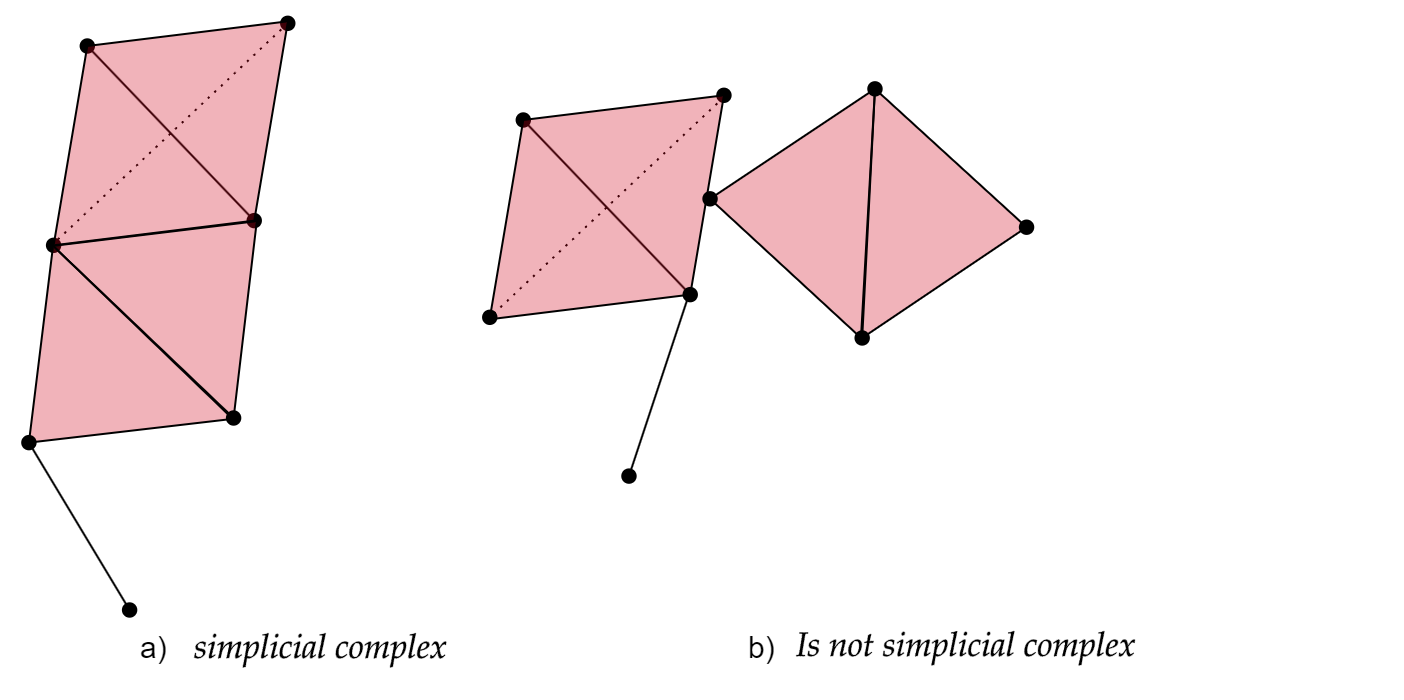
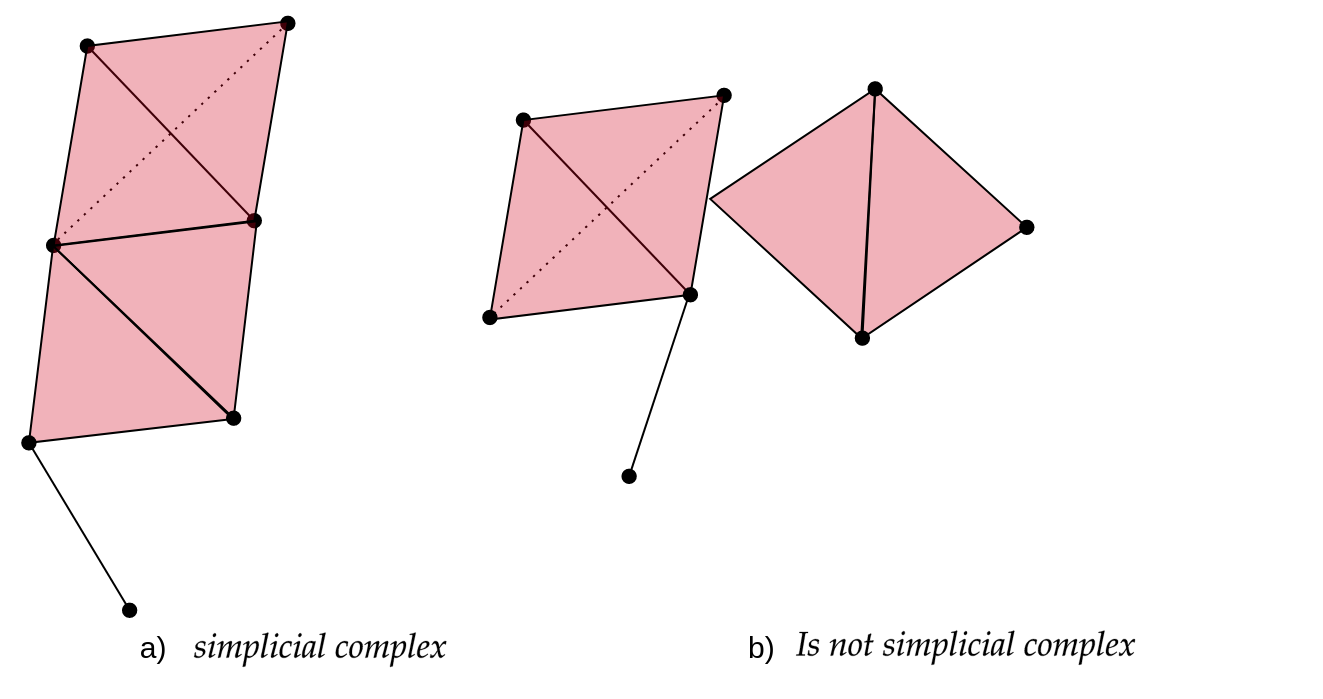
fix 08tda

diff --git a/episodes/09-tda-handson.md b/episodes/09-tda-handson.md
@@ -11,7 +11,7 @@ keypoints:
 ---
 ## **Introduction to GUDHI and Simplicial Homology**
 
-Welcome to this lesson on using GUDHI and exploring simplicial homology. GUDHI (Geometry Understanding in Higher Dimensions) is an open-source C++ library that provides algorithms and data structures for the analysis of geometric data. It offers a wide range of tools for topological data analysis, including simplicial complexes and computations of their homology.
+Welcome to this lesson on using GUDHI and exploring simplicial homology. GUDHI (Geometry Understanding in Higher Dimensions) is an open-source that provides algorithms and data structures for the analysis of geometric data. It offers a wide range of tools for topological data analysis, including simplicial complexes and computations of their homology.
 ### **1. Library**
 To begin, we will import the necessary packages.
 ~~~
